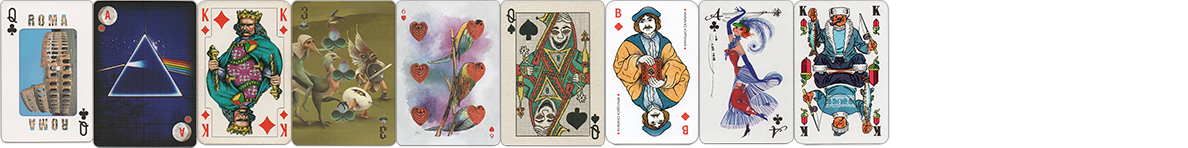
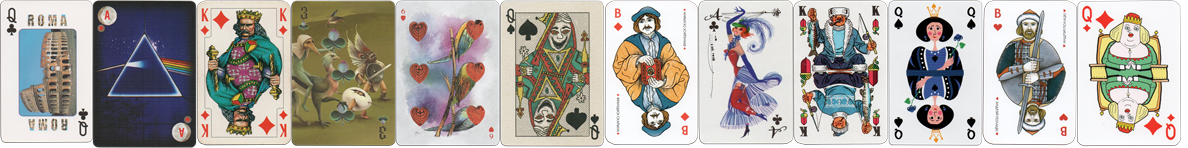
feat(Playing cards): add new cards

diff --git a/src/app/components/item-pages/PlayingCardsPage/index.tsx b/src/app/components/item-pages/PlayingCardsPage/index.tsx
@@ -869,6 +869,33 @@ const PlayingCardsPage: React.FunctionComponent<ItemPageProps> = ({className, it
               height={147}
               imgs={playingCards8Imgs}
             />
+            <PlayingCard
+              href="https://flyingtiger.com/products/playing-cards-3033003"
+              title="Playing cards"
+              x={889}
+              y={0}
+              width={94}
+              height={147}
+              imgs={playingCards8Imgs}
+            />
+            <PlayingCard
+              href="https://s13.ru/archives/oz-14"
+              title="ВКЛ 2"
+              x={983}
+              y={0}
+              width={94}
+              height={147}
+              imgs={playingCards8Imgs}
+            />
+            <PlayingCard
+              href="https://www.sklep.mleczko.pl/pl/p/Karty-Gra-w-Pana/1612"
+              title="Gra w Pana"
+              x={1077}
+              y={0}
+              width={103}
+              height={147}
+              imgs={playingCards8Imgs}
+            />
 
             {/* unusual */}
             <PlayingCard

diff --git a/src/app/data/translations/ru.ts b/src/app/data/translations/ru.ts
@@ -526,7 +526,7 @@ export const ru: TranslatedStrings = {
       p2: 'Не ставлю себе задачу собрать очень много и всё подряд, поэтому коллекция не очень \
 большая и насчитывает на данный момент около 100 колод. Собираю именно те, \
 которые понравились.',
-      imgTitle: 'По одной карте из каждой колоды (кликабельно). Март 2022',
+      imgTitle: 'По одной карте из каждой колоды (кликабельно). Июль 2022',
     },
   },
   Poland: {

diff --git a/src/app/data/translations/en.ts b/src/app/data/translations/en.ts
@@ -435,7 +435,7 @@ export const en: TranslatedStrings = {
       p2: 'There is no purpose to gather everything from everywhere, \
 so the collection is not so big and contains around 100 decks today. \
 Collecting those which I really like.',
-      imgTitle: 'One card from each deck (clickable). March 2022',
+      imgTitle: 'One card from each deck (clickable). July 2022',
     },
   },
   Poland: {
